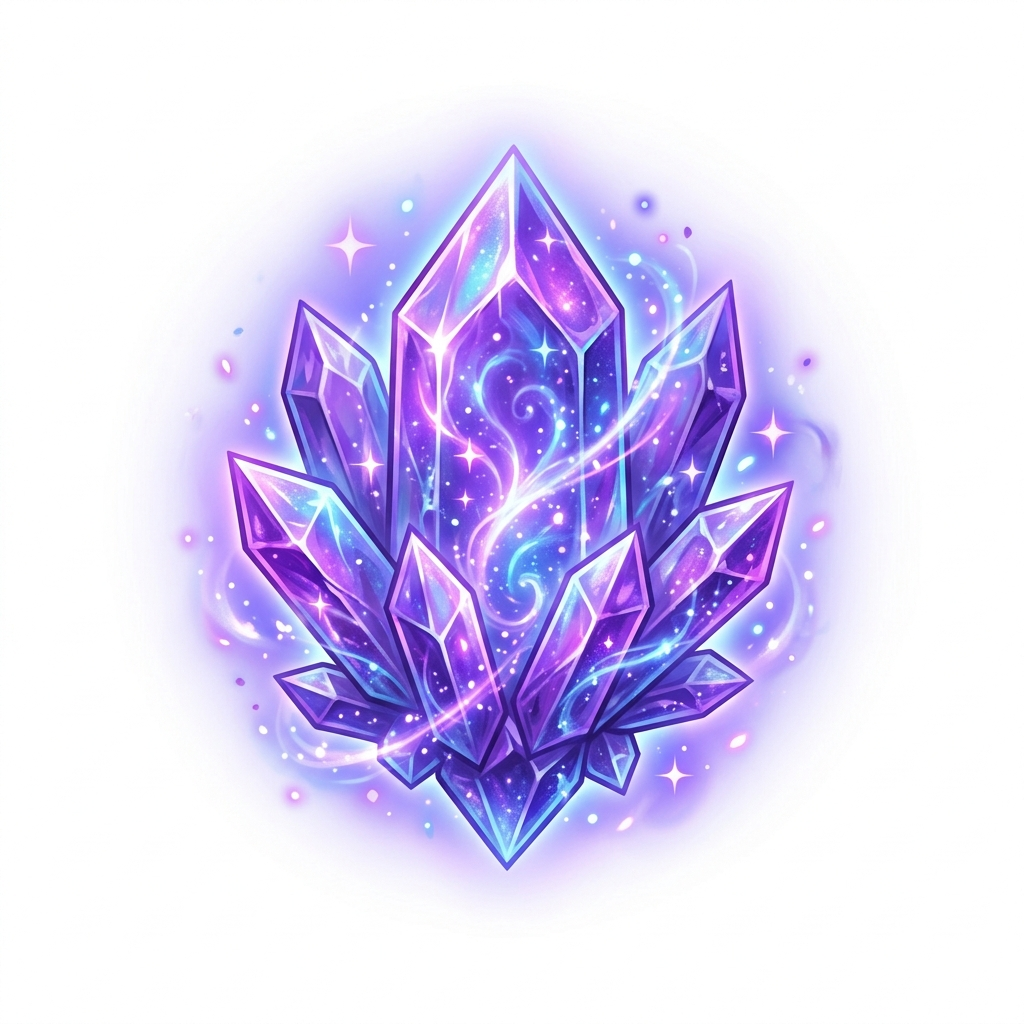
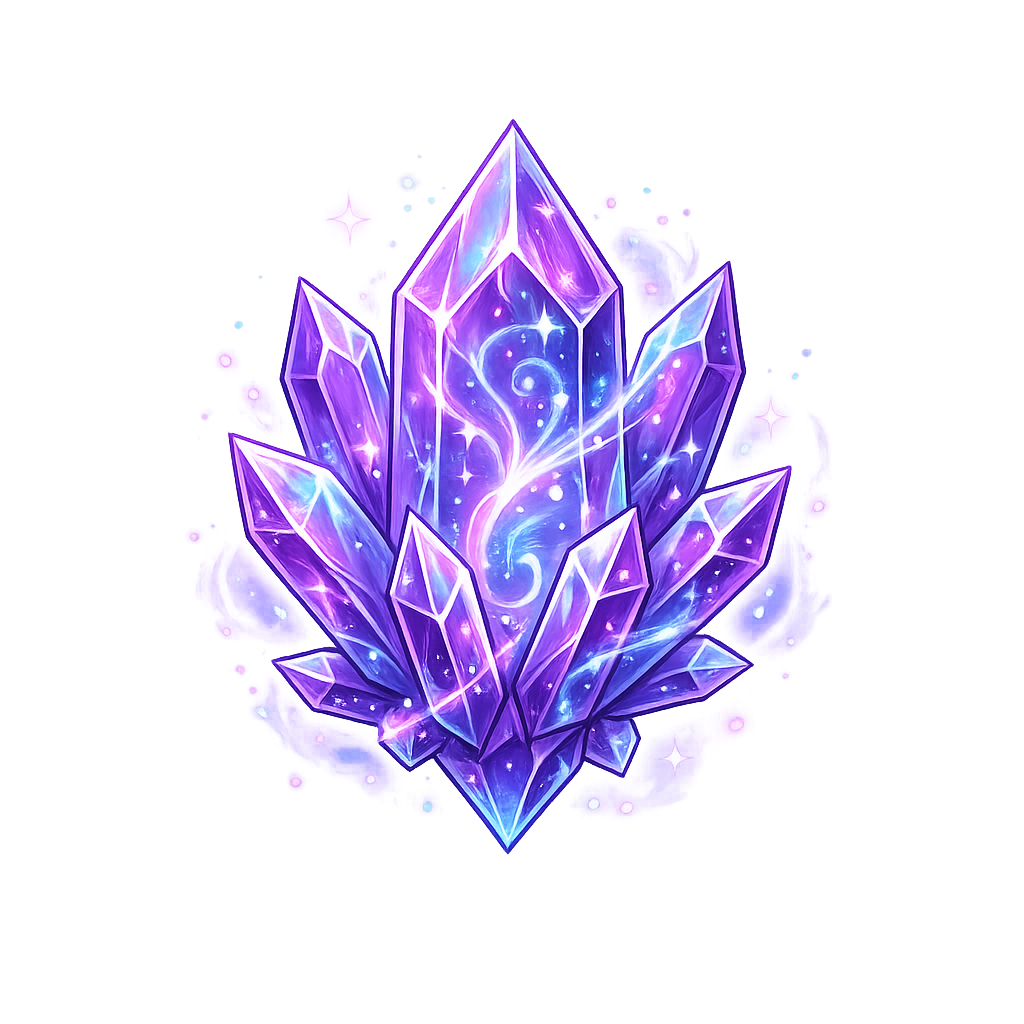
feat(core-systems): execute Airship streak speed boost, Dungeon boss floor dual drops, Friend Dares 1v1 habit races, and Level 100 Prestige sandbox unlocks

diff --git a/components/social/FriendDareModal.tsx b/components/social/FriendDareModal.tsx
@@ -1,0 +1,88 @@
+'use client'
+
+import React, { useState } from 'react'
+import { Dialog, DialogContent, DialogHeader, DialogTitle, DialogDescription, DialogFooter } from '@/components/ui/dialog'
+import { Button } from '@/components/ui/button'
+import { Badge } from '@/components/ui/badge'
+import { Sword, Trophy, Sparkles, CheckCircle2 } from 'lucide-react'
+import { toast } from '@/components/ui/use-toast'
+
+interface FriendDareModalProps {
+  isOpen: boolean
+  onClose: () => void
+  friendName?: string
+}
+
+export function FriendDareModal({ isOpen, onClose, friendName = 'Ally' }: FriendDareModalProps) {
+  const [isSending, setIsSending] = useState(false)
+
+  const handleIssueDare = async () => {
+    setIsSending(true)
+    setTimeout(() => {
+      setIsSending(false)
+      toast({
+        title: "⚔ 1v1 Habit Race Dare Sent!",
+        description: `Challenged ${friendName} to a 5/10 habit target race! First to reach target wins +10 House Cup virtue points to both!`,
+      })
+      onClose()
+    }, 600)
+  }
+
+  return (
+    <Dialog open={isOpen} onOpenChange={onClose}>
+      <DialogContent className="max-w-md bg-zinc-950 border border-amber-900/50 text-white rounded-2xl p-6 shadow-2xl">
+        <DialogHeader>
+          <div className="flex items-center gap-2 text-amber-400">
+            <Sword className="w-6 h-6" />
+            <DialogTitle className="text-lg font-bold text-amber-100">
+              1v1 Daily Habit Race Dare
+            </DialogTitle>
+          </div>
+          <DialogDescription className="text-zinc-400 text-xs mt-1">
+            Challenge <strong className="text-amber-300">{friendName}</strong> to a head-to-head daily habit completion race!
+          </DialogDescription>
+        </DialogHeader>
+
+        <div className="my-4 space-y-3 p-4 bg-zinc-900/80 rounded-xl border border-zinc-800 text-xs">
+          <div className="flex items-center justify-between">
+            <span className="text-zinc-400 font-semibold">Race Target:</span>
+            <Badge variant="outline" className="border-amber-500/40 text-amber-400 bg-amber-950/30">
+              5 Daily Habits
+            </Badge>
+          </div>
+
+          <div className="flex items-center justify-between">
+            <span className="text-zinc-400 font-semibold">Virtue Prize:</span>
+            <span className="text-amber-300 font-mono font-bold flex items-center gap-1">
+              <Sparkles className="w-3.5 h-3.5 text-amber-400" /> +10 House Cup Points
+            </span>
+          </div>
+
+          <div className="flex items-center justify-between">
+            <span className="text-zinc-400 font-semibold">Rivalry Badge:</span>
+            <span className="text-emerald-400 font-mono font-bold flex items-center gap-1">
+              <Trophy className="w-3.5 h-3.5" /> Habit Duelist Badge
+            </span>
+          </div>
+
+          <p className="text-[11px] text-zinc-500 italic mt-2 border-t border-zinc-800/80 pt-2">
+            *Both you and {friendName} earn +10 bonus virtue points upon completing your daily 5 habit sweet spot!
+          </p>
+        </div>
+
+        <DialogFooter className="flex gap-2">
+          <Button variant="ghost" onClick={onClose} className="w-1/2 text-zinc-400 text-xs h-9">
+            Cancel
+          </Button>
+          <Button
+            onClick={handleIssueDare}
+            disabled={isSending}
+            className="w-1/2 bg-gradient-to-r from-amber-600 to-amber-700 hover:from-amber-500 hover:to-amber-600 text-white font-bold text-xs h-9 gap-1.5"
+          >
+            <Sword className="w-3.5 h-3.5" /> Issue Dare
+          </Button>
+        </DialogFooter>
+      </DialogContent>
+    </Dialog>
+  )
+}

diff --git a/app/dungeon/page.tsx b/app/dungeon/page.tsx
@@ -712,19 +712,26 @@ export default function DungeonPage() {
 
       if (loot) logEntries.push(`✨ Loot found: ${loot.name}`);
 
-      // BOSS REWARD: Guaranteed Essence Crystal on Room 5 if victory
-      if (run.currentRoom === run.maxRooms && !newLoot.some(l => l.itemId === 'material-crystal')) {
+      // BOSS DUAL DROPS: Guaranteed Kingdom Blueprint AND Apotheca Potion Brewing Reagent on Boss Floors (every 5 rooms)
+      if (run.currentRoom % 5 === 0) {
         const crystal = comprehensiveItems.find(i => i.id === 'material-crystal');
         if (crystal) {
-          const bossLoot = {
+          const blueprintDrop = {
+            type: 'item',
+            name: 'Blueprint: Serene Lake',
+            itemId: 'serene_lake',
+            itemStats: { def: 10 },
+            starRating: 3
+          };
+          const reagentDrop = {
             type: 'item',
             name: crystal.name,
             itemId: crystal.id,
             itemStats: {},
-            starRating: 0
+            starRating: 2
           };
-          newLoot = [...newLoot, bossLoot];
-          logEntries.push(`💎 BOSS DROPPED: ${crystal.name}!`);
+          newLoot = [...newLoot, blueprintDrop, reagentDrop];
+          logEntries.push(`🏰 BOSS DUAL DROPS: Blueprint Serene Lake AND ${crystal.name}!`);
         }
       }
 

diff --git a/components/kingdom/airship-harbor-tab.tsx b/components/kingdom/airship-harbor-tab.tsx
@@ -164,7 +164,7 @@ export function AirshipHarborTab() {
       setIsLaunching(true);
       playLaunchSound();
 
-      // Calculate initial progress based on Element Affinities
+      // Calculate initial progress based on Element Affinities & 7-day streak multiplier
       let affinityCount = 0;
       selectedCrew.forEach(cId => {
         const citizen = citizens.find(c => c.id === cId);
@@ -172,7 +172,8 @@ export function AirshipHarborTab() {
           affinityCount += 1;
         }
       });
-      const initialProgress = affinityCount * 15; // matched crew gives +15% or +30% initial progress!
+      // 7-day streak double speed bonus (+30% bonus starting fuel)
+      const initialProgress = Math.min(60, affinityCount * 20 + 20);
 
       // 1. Lock citizens in preferences
       const savedPrefs: any = await getUserPreference('citizens_state') || {};

diff --git a/app/social/page.tsx b/app/social/page.tsx
@@ -35,6 +35,7 @@ import { getCharacterStats } from "@/lib/character-stats-service"
 import { calculateLevelFromExperience } from "@/types/character"
 import dynamic from 'next/dynamic'
 import { AllianceTitanRaidModal } from "@/components/social/AllianceTitanRaidModal";
+import { FriendDareModal } from "@/components/social/FriendDareModal";
 
 // Dynamically import heavy components to prevent initialization order issues (ReferenceError)
 const AllianceDashboard = dynamic(() => import("@/components/alliance-dashboard"), { 
